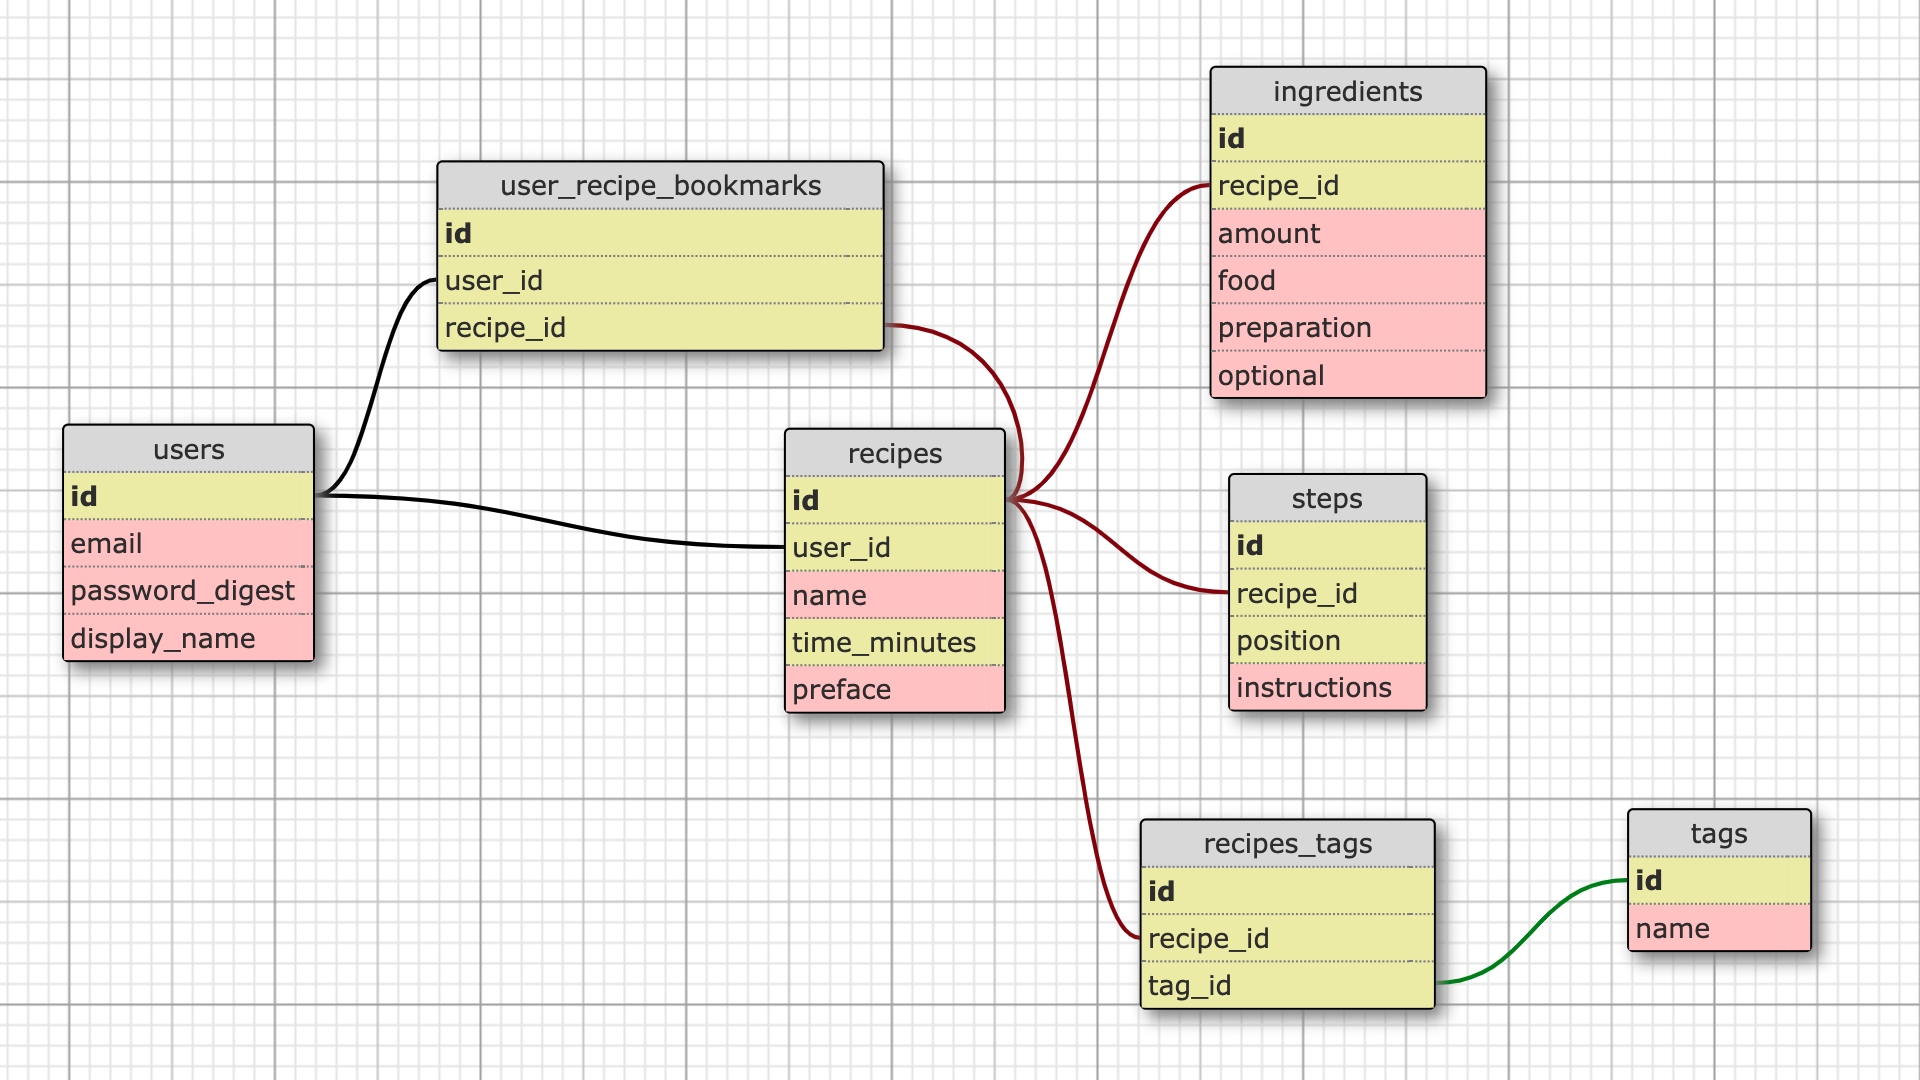
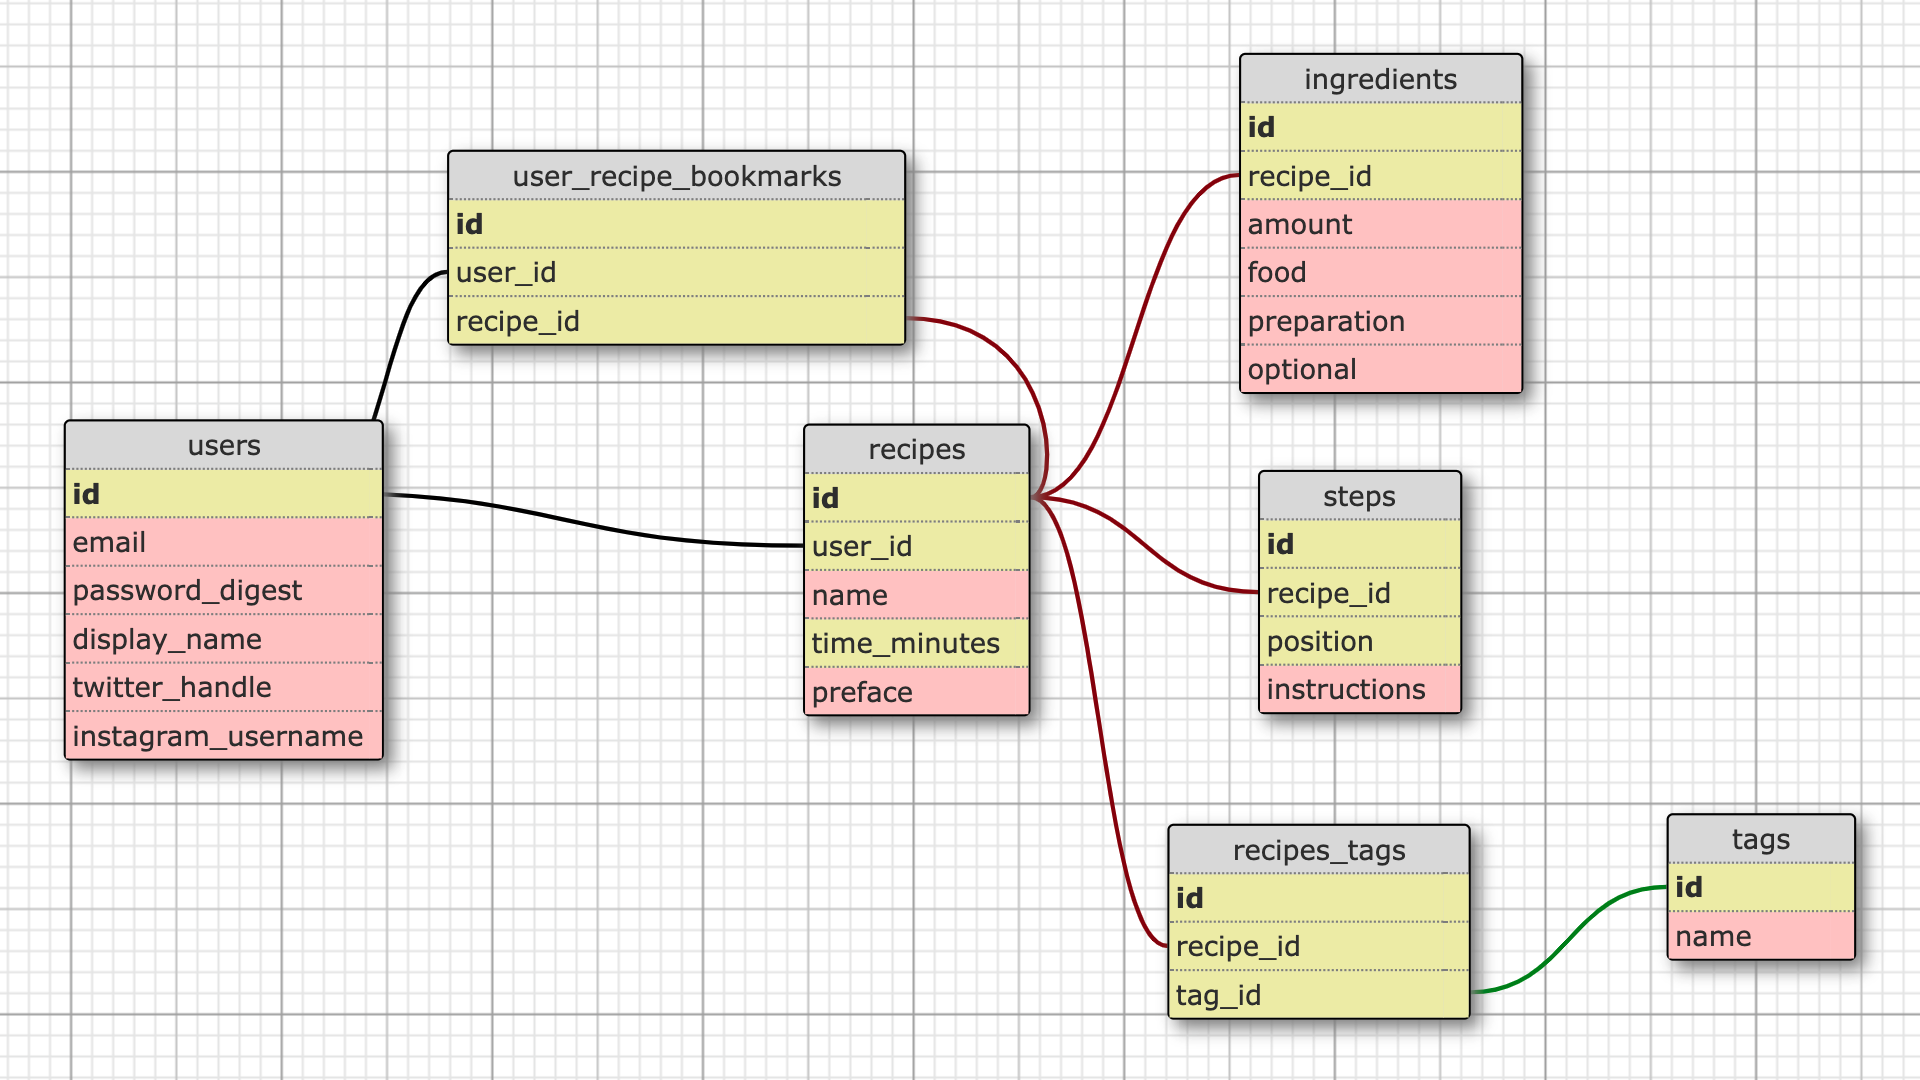
Add 'Database' section

Changed region(s): [[0.0, 0.0, 1.0, 1.0]]

diff --git a/_articles/projects/meals-of-change.md b/_articles/projects/meals-of-change.md
@@ -1465,26 +1465,126 @@ export default RecipePhoto;
 
 `props.photo` here is `recipe.large_photo` as returned from the API.
 
-<!--
-
 ### Database
 
-Build from the ground up...
+The two issues covered so far (authentication and photo uploading) were the two areas that I really felt a deficit in knowledge heading into this project. But with both painstakingly resolved, the rest of the process of building this app went fairly smoothly.
 
-I wanted to keep everything as simple as possible.
+My philosphy for building an application, is that you start with the data.
 
-I say that every project, before ending up with a database structure looking like Spaghetti Junction.
+That database is the foundation of any app (assuming that it's an app that has a database).
 
-On this project I was determined to keep my word, and really balance-out the benefit of a feature compared to the complexity it would add, so I ended up with a database of just seven tables (discounting those for ActiveStorage):
+One change in the back-end code means ten changes for the front-end, and one change to the database, means ten changes for the back-end. So any change in the database is magnified throughout the app, so it's important to build from the ground up, and get the database right as early as possible.
 
-![Meals of Change database](/images/meals-of-change-database-structure.png)
+And to make life easier, sometimes keeping things as simple as possible is key.
+
+When I first started coding, I used to build any feature I wanted, complexity be damned. Now slightly longer in the tooth, I'm more prone to weighing-up whether the benefit of a feature is worth the complexity it adds.
+
+And where as in those early apps I might end up with a database schema looking like Spaghetti Junction, for this project I wanted to keep things as simple as possible.
+
+Meals of Change therefore is an app of just seven database tables (discounting those used for ActiveStorage):
+
+![Meals of Change database](/images/meals-of-change/database-structure.png)
 
 A user has many recipes, as well as many recipe bookmarks. A recipe also has many recipe bookmarks, as well as many ingredients, steps and recipe tags. A tag has many recipe tags.
 
 That's it.
 
-And in keeping with this theme of simplicity, I wanted to keep the models and controllers as lean as possible. -->
+As I was intending to host the API on Heroku, I used PostgreSQL.
 
-<!-- ![Meals of Change screenshot](/images/meals-of-change.png) -->
+<!-- Start from here - Your brain was failing by the time you wrote the below -->
 
-<!-- TODO - Recipe new form -->
+### Models
+
+Keeping the database so simple allowed me to keep the backend code very lean, adding little but assocations and validations.
+
+For example, the two 'main' models in this app are the user and the recipe model:
+
+```rb
+# app/models/user.rb
+
+class User < ApplicationRecord
+  has_secure_password
+
+  has_many :recipes, dependent: :destroy
+  has_many :user_recipe_bookmarks, dependent: :destroy
+  has_many :bookmarked_recipes, through: :user_recipe_bookmarks, source: :recipe
+
+  validates_presence_of :email, :display_name
+  validates_uniqueness_of :email, :display_name, case_sensitive: false
+  validates :email, format: { with: URI::MailTo::EMAIL_REGEXP }
+  validates :password, length: { minimum: 8 }, if: :password_digest_changed?
+  validates :display_name, length: { minimum: 4, maximum: 20 }
+  validates :twitter_handle, length: { minimum: 4, maximum: 15 }, allow_nil: true
+  validates :twitter_handle, format: { with: /\A[\w]*\z/, message: 'only allows letters, numbers and underscores' }
+  validates :instagram_username, length: { minimum: 1, maximum: 30 }, allow_nil: true
+  validates :instagram_username, format: { with: /\A[\w.]*\z/, message: 'only allows letters, numbers, full stops and underscores' }
+end
+```
+
+The recipe model is slightly more complex, just because it has the search logic:
+
+```rb
+# app/models/recipe.rb
+
+class Recipe < ApplicationRecord
+  include PgSearch::Model
+
+  belongs_to :user
+  has_many :ingredients, dependent: :destroy
+  has_many :steps, dependent: :destroy
+  has_many :recipe_tags, dependent: :destroy
+  has_many :tags, through: :recipe_tags
+  has_many :user_recipe_bookmarks, dependent: :destroy
+  has_many :bookmarked_users, through: :user_recipe_bookmarks, source: :user
+
+  has_one_attached :small_photo
+  has_one_attached :large_photo
+
+  accepts_nested_attributes_for :ingredients, :steps
+
+  validates_presence_of :name
+  validates_length_of :preface, maximum: 2500
+  validate :validate_number_of_tags
+
+  pg_search_scope :search_by_recipe_name_ingredient_food_and_tag_name,
+    against: { name: 'A' },
+    associated_against: {
+      ingredients: { food: 'C' },
+      tags: { name: 'B' }
+    },
+    using: {
+      tsearch: { prefix: true, dictionary: 'english' }
+    }
+
+  def small_photo_url
+    if small_photo.attached?
+      small_photo.blob.service_url
+    end
+  end
+
+  def large_photo_url
+    if large_photo.attached?
+      large_photo.blob.service_url
+    end
+  end
+
+  private
+
+  def validate_number_of_tags
+    return if tags.count <= 9
+
+    errors.add(:base, 'cannot have more than 9 tags')
+  end
+end
+```
+
+<!-- API: -->
+<!-- Controllers -->
+<!-- Search -->
+<!-- Specs -->
+
+<!-- Frontend: -->
+<!-- New recipe form -->
+<!-- Tailwind -->
+
+<!-- Hosting (Heroku and Vercel) -->
